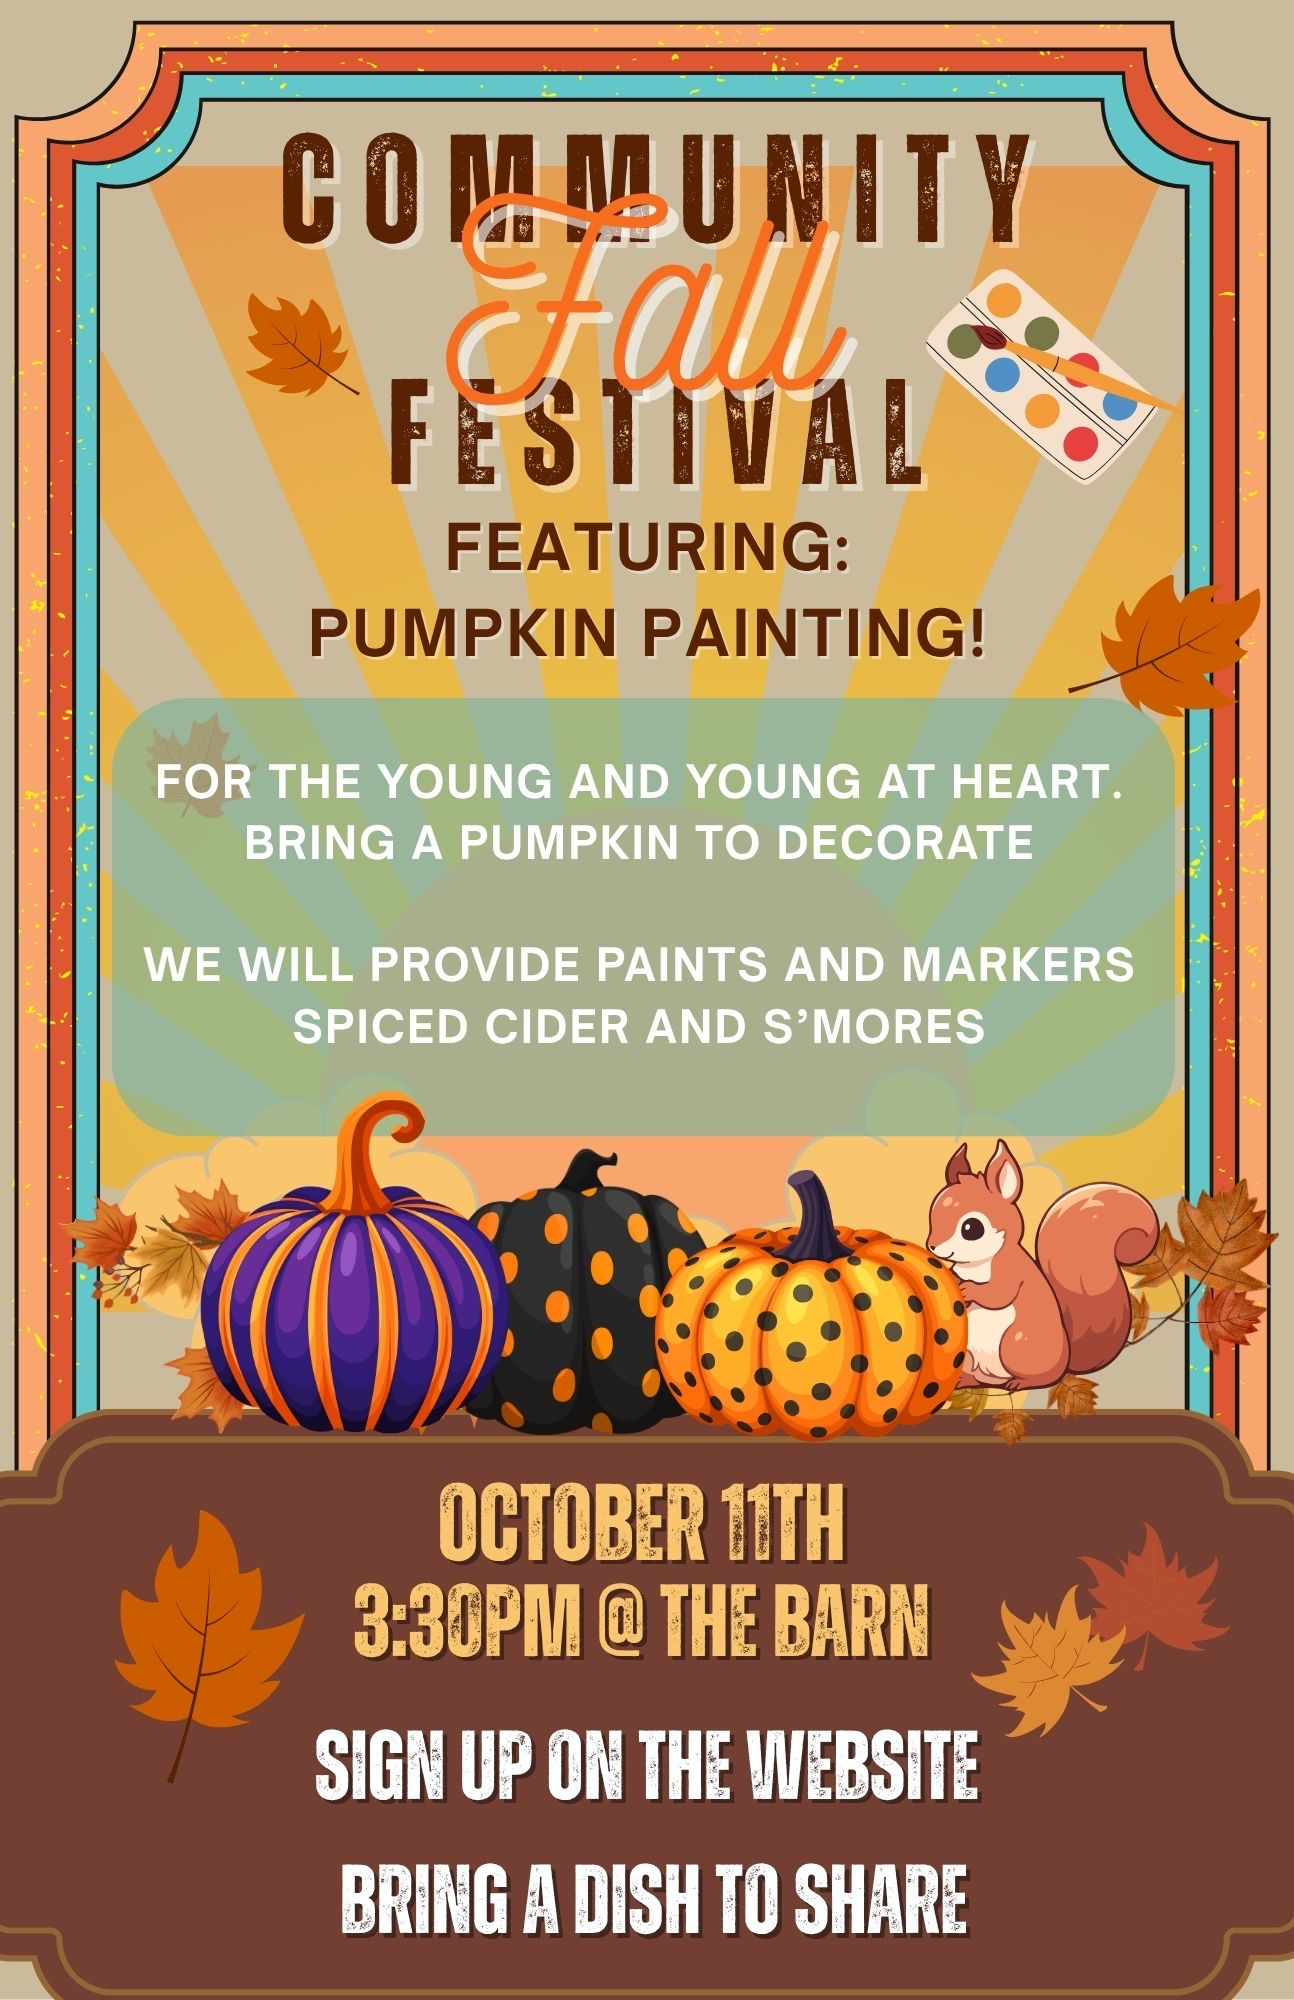
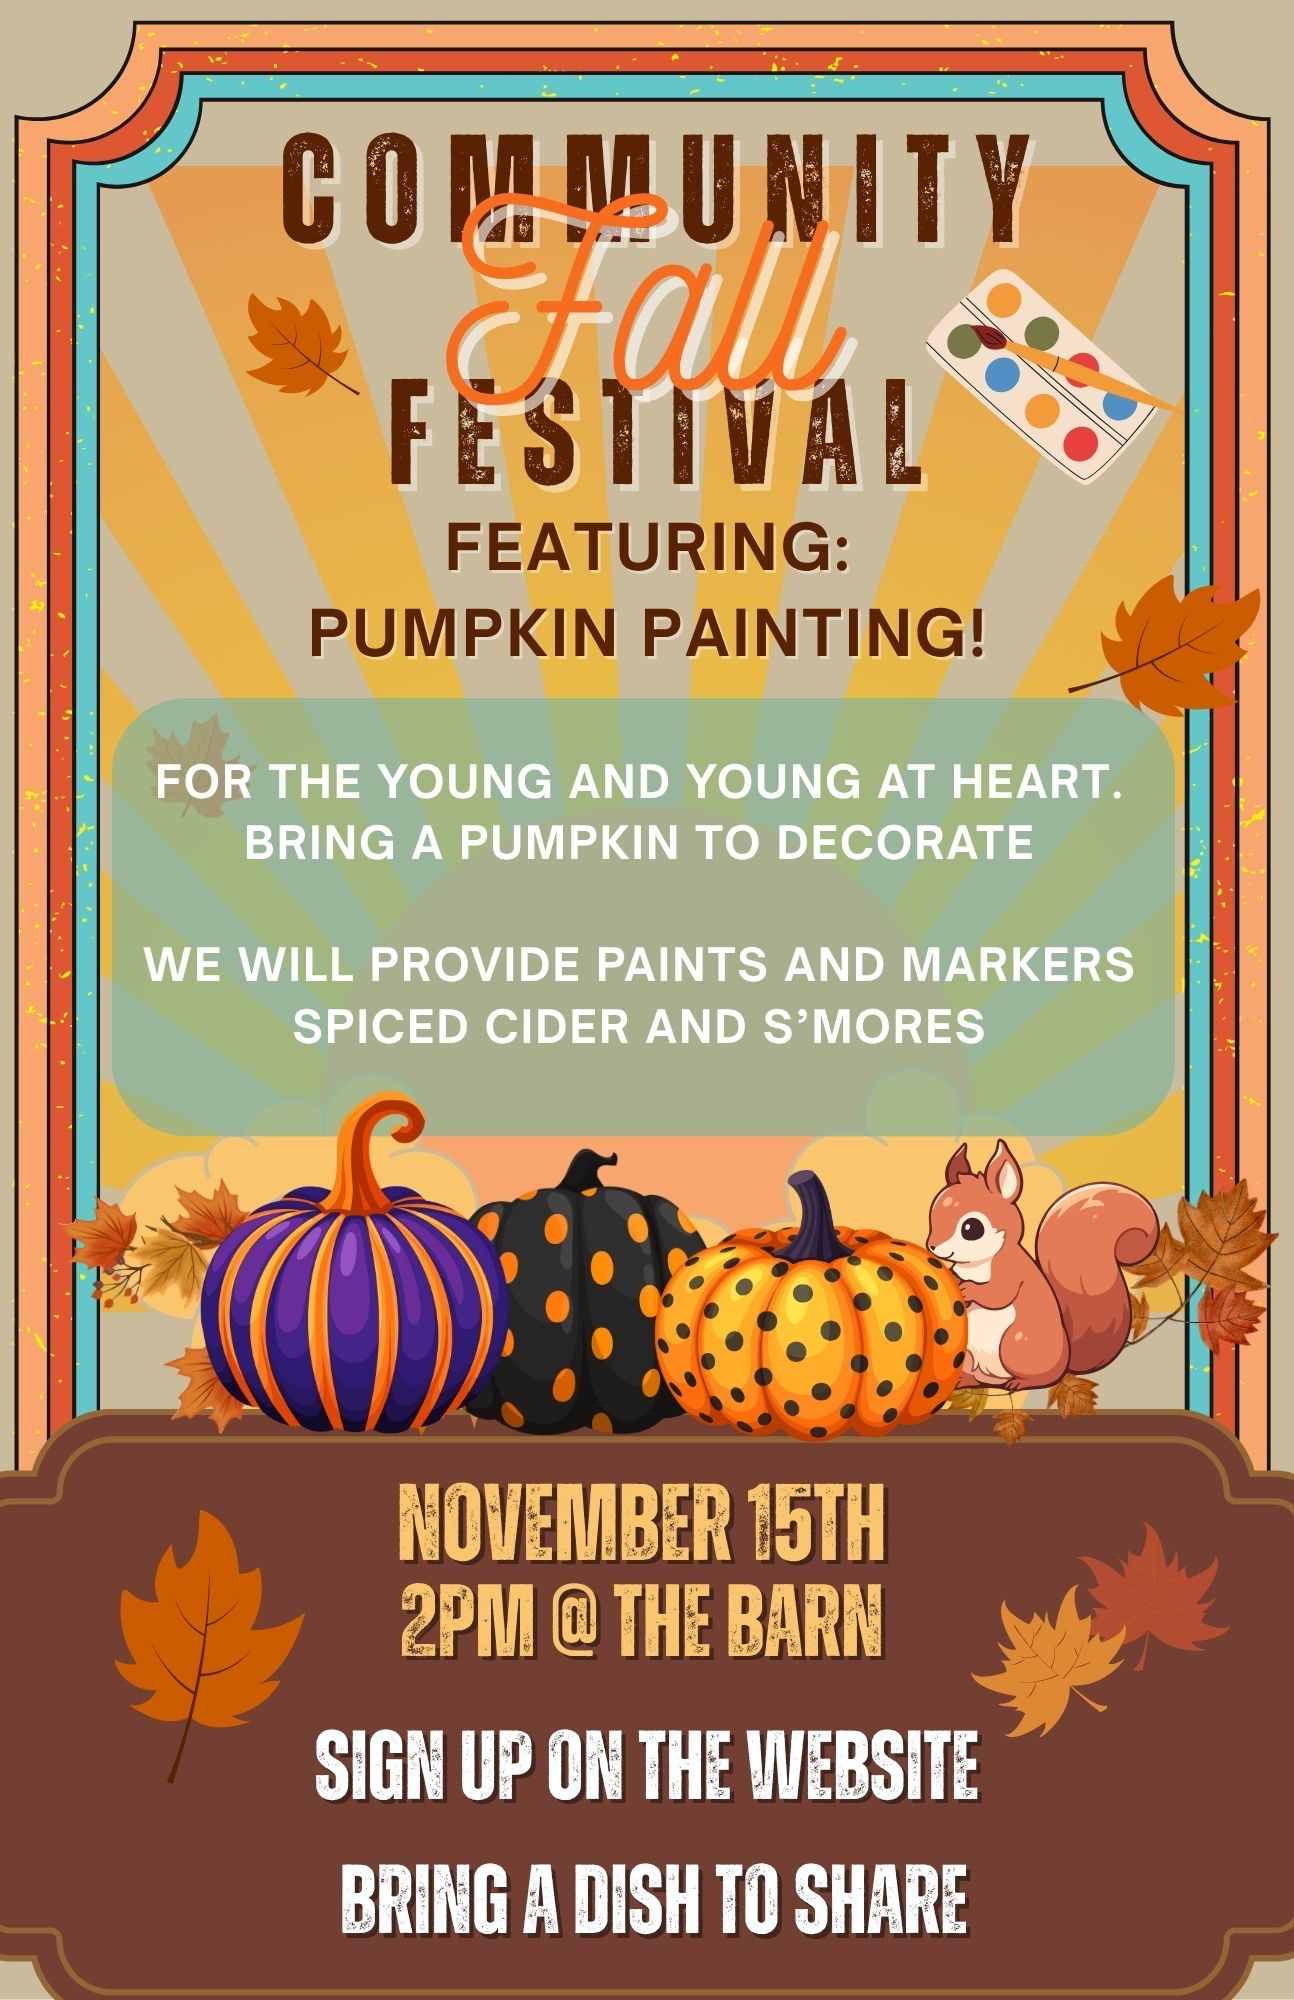
update fall festival

Changed region(s): [[0.2782, 0.744, 0.7419, 0.837]]

diff --git a/events.html b/events.html
@@ -286,7 +286,7 @@
         <div class="event-meta">
           <div class="event-meta-row">
             <svg viewBox="0 0 20 20" fill="none"><circle cx="10" cy="10" r="7" stroke="#6b7280" stroke-width="1.4"/><path d="M10 6v4l2.5 2.5" stroke="#6b7280" stroke-width="1.4" stroke-linecap="round"/></svg>
-            Sunday, October 11th 3:30PM
+            Sunday, November 15th 2:00PM
           </div>
           <div class="event-meta-row">
             <svg viewBox="0 0 20 20" fill="none"><path d="M10 2C7.24 2 5 4.24 5 7c0 4.25 5 11 5 11s5-6.75 5-11c0-2.76-2.24-5-5-5z" stroke="#6b7280" stroke-width="1.4"/><circle cx="10" cy="7" r="1.5" stroke="#6b7280" stroke-width="1.4"/></svg>
@@ -299,15 +299,15 @@
           <span class="calendar-label">Add this to your calendar:</span>
           <a class="calendar-link"
              data-title="Community Fall Festival - 2026"
-             data-start="2026-10-11T15:30:00"
-             data-end="2026-10-11T17:30:00"
+             data-start="2026-11-15T14:00:00"
+             data-end="2026-11-15T17:30:00"
              data-location="The Barn"
              data-description="For the young and young at heart. Bring a pumpkin to decorate. We will provide paints and markers, spiced cider and s'mores."
              onclick="addToGoogleCalendar(this)">📅 Google Calendar</a>
           <a class="calendar-link"
              data-title="Community Fall Festival - 2026"
-             data-start="2026-10-11T15:30:00"
-             data-end="2026-10-11T17:30:00"
+             data-start="2026-11-15T14:00:00"
+             data-end="2026-11-15T17:30:00"
              data-location="The Barn"
              data-description="For the young and young at heart. Bring a pumpkin to decorate. We will provide paints and markers, spiced cider and s'mores."
              onclick="downloadIcs(this)">📥 Apple/Outlook (.ics)</a>
